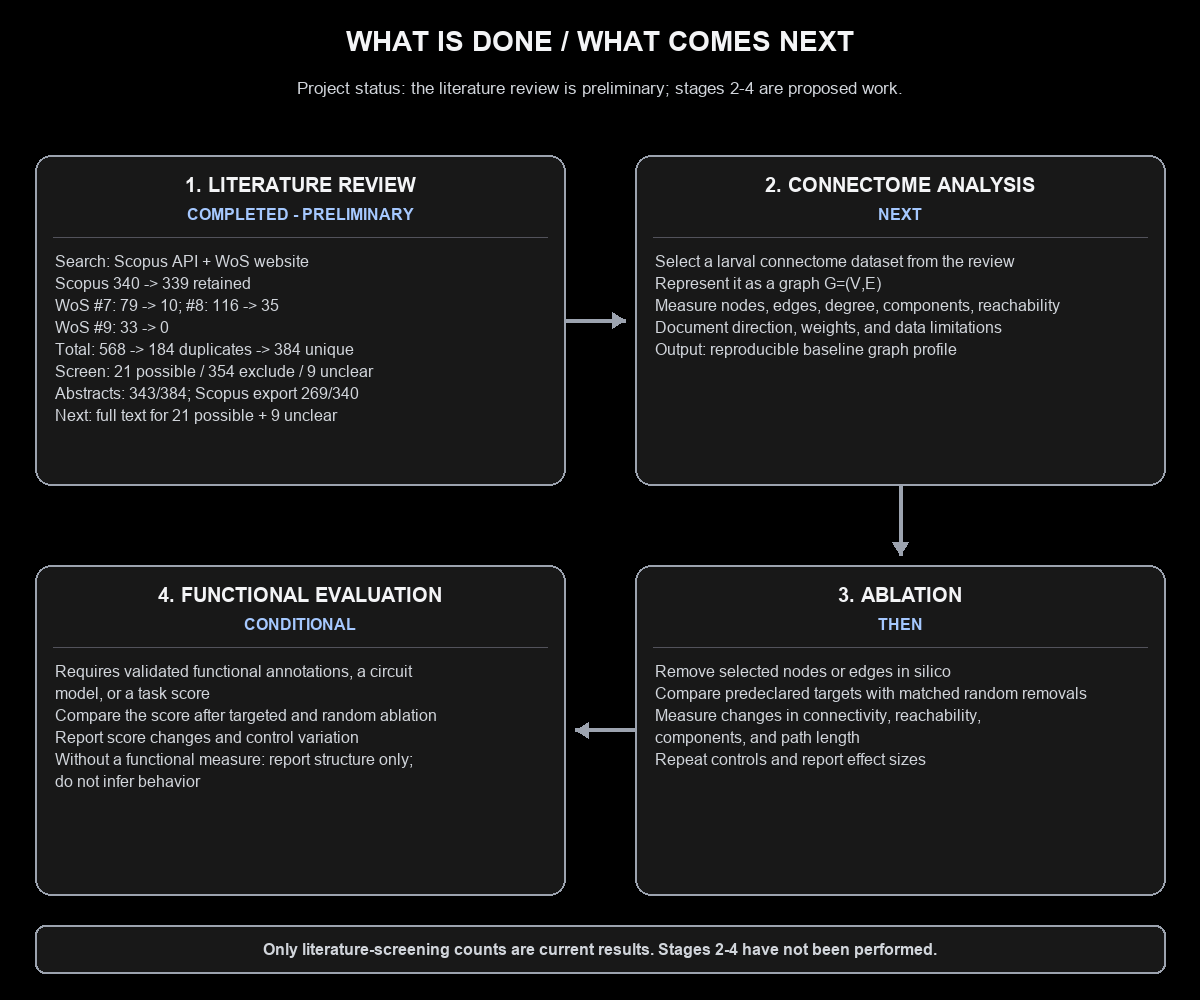
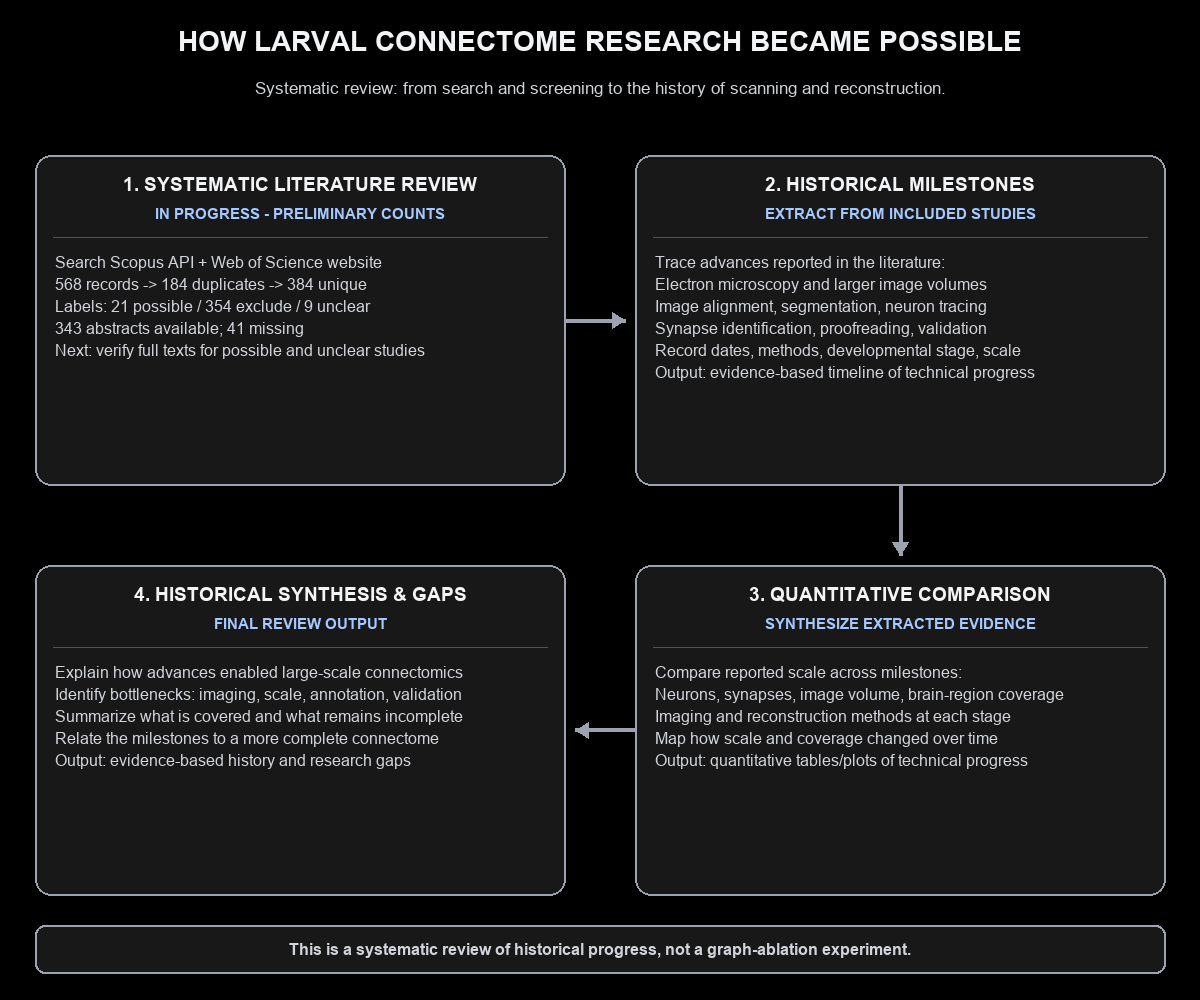
Align workflow with historical systematic review

diff --git a/document.tex b/document.tex
@@ -116,27 +116,32 @@ The main problem addressed in this work is
 \section{Possible Approach}
 
 This assignment begins with a quantitative literature review of the larval
-\textit{Drosophila melanogaster} connectome. The longer-term research idea
-is to select a suitable connectome dataset, analyze its graph, perform
-in-silico ablation, and evaluate functional consequences if a validated
-functional measure is available.
+\textit{Drosophila melanogaster} connectome. The research idea is historical:
+to trace how advances in electron-microscopy imaging, image processing,
+neuron reconstruction, and validation made increasingly large-scale larval
+connectome projects possible. The systematic review will identify these
+milestones, compare their reported scale and coverage, and summarize the
+remaining barriers to a more complete connectome.
 
 \subsection{Scope and Objectives}
 
-The preliminary quantitative question is: \textit{How has research on the larval \textit{D. melanogaster} connectome
-developed, and which datasets and computational methods are represented?}
-Initial quantitative measures are publication counts, citation counts,
-keywords, and screening decisions. The reported 2015--2024 period is a
+The preliminary question is: \textit{How did imaging and reconstruction
+methods develop to make large-scale larval \textit{D. melanogaster}
+connectomics possible, and how did the scale and coverage of the resulting
+datasets change?} Quantitative measures include publication counts and,
+where reported in eligible studies, image volume, reconstructed neurons,
+synapses, and brain-region coverage. The reported 2015--2024 period is a
 retrospective filter of the existing 2010--2026 exports, not a new search.
 The Scopus API log is dated 4 November 2026. The exact date and query history
 for the direct Web of Science (WoS) website search were not retained.
 
-The target records are journal articles and conference papers reporting
-primary research on larval \textit{D. melanogaster} connectivity, connectome
-reconstruction, or neural-circuit analysis. Reviews may inform background
-reading but will not count as primary studies. The current exports contain
-multiple publication types and no verified document-type filter, so this
-criterion still requires screening.
+The target records are primary studies on larval \textit{D. melanogaster}
+connectivity and connectome datasets, including the imaging, image
+processing, reconstruction, synapse identification, and validation methods
+that enabled them. Reviews may inform background reading but will not count
+as primary studies. The current exports contain multiple publication types
+and no verified document-type filter, so this criterion still requires
+screening.
 
 \subsection{Search Terms and Query Design}
 
@@ -245,20 +250,22 @@ query logs, criteria, and scripts are available in the project repository
 
 \subsection{Proposed Connectome Research Pipeline}
 
-The diagram separates the longer-term research idea from the bibliographic
-task currently being completed. The literature review will identify and
-compare candidate datasets and methods. A later connectome analysis may
-represent connectivity as a graph, remove selected nodes or edges in silico,
-and compare predefined circuit or task-related measures before and after
-ablation. No connectome analysis, ablation, or functional evaluation has yet
-been performed.
+The project is a systematic review of the historical development of larval
+connectomics, not a planned graph-ablation experiment. After search and
+screening, the review will extract milestones in electron-microscopy
+acquisition, image alignment and segmentation, neuron and synapse
+reconstruction, and validation. Reported dataset scale and coverage will be
+compared quantitatively where the source studies provide comparable
+measures. The synthesis will explain how these technical advances enabled
+larger reconstructions and identify limitations that remain on the path
+toward a more complete connectome. The current screening counts are
+preliminary; historical extraction and synthesis remain to be completed.
 
 \begin{figure*}[!t]
 \centering
 \includegraphics[width=0.95\textwidth]{pipe.png}
-\caption{Numbered project workflow. The literature-review counts are
-preliminary; connectome analysis, ablation, and functional evaluation are
-future work.}
+\caption{Systematic-review workflow for tracing historical technical
+advances that enabled larval connectome imaging and reconstruction.}
 \label{fig:workflow}
 \end{figure*}
 \begin{thebibliography}{00}

diff --git a/README.md b/README.md
@@ -1,6 +1,6 @@
 # Larval Drosophila Connectome
 
-This repository documents the preliminary literature review and proposed research pipeline in the existing IEEE-style draft, `document.tex`.
+This repository documents a systematic review of how imaging and reconstruction advances made large-scale larval Drosophila connectomics possible.
 
 ## Search and analysis
 
@@ -8,7 +8,7 @@ The Scopus Search API was queried on 2026-11-04 with three Boolean searches. Tog
 
 The quantitative results are a retrospective 2015-2024 subset of the available exports, not a new database search. The subset contains 568 source rows: 340 from Scopus and 228 from WoS. Deduplication removed 184 records, leaving 384 unique records. Source-level counts are in `source_counts.csv`; Scopus query counts are in `search_runs.csv`; Boolean expressions and limitations are in `search.txt`.
 
-Current screening labels are preliminary: 21 INCLUDE, 354 EXCLUDE, and 9 UNCLEAR. Abstracts are present for 343 of 384 unique records. The 21 possible inclusions and 9 unclear records still require eligibility and full-text review.
+Current screening labels are preliminary: 21 INCLUDE, 354 EXCLUDE, and 9 UNCLEAR. Abstracts are present for 343 of 384 unique records. The 21 possible inclusions and 9 unclear records still require eligibility and full-text review. The review will trace electron-microscopy acquisition, image processing, neuron/synapse reconstruction, and validation milestones, then compare reported dataset scale and coverage where measures are available.
 
 The Scopus export has abstracts for 269 of its 340 records in this period. Missing abstracts were manually looked up where accessible, as reported by the researcher. An OpenAlex enrichment check was also attempted for all 488 Scopus records, but per-record abstract provenance was not preserved; an exact manual-lookup count cannot be reported.
 
@@ -30,4 +30,4 @@ python stats.py
 
 `merge.py` imports the Scopus and WoS exports, deduplicates by DOI and then normalized title/year, and writes local screening and duplicate-review files. After title/abstract decisions and rationales are recorded, `stats.py` filters to 2015-2024, checks source, screening, and deduplication totals, and writes `counts.csv` and `source_counts.csv`. Change the analysis period with `--start-year` and `--end-year`.
 
-`screening_criteria.csv` records the eligibility rules and decision rationale. The WoS query history/date and per-record abstract-source provenance were not retained; these limitations are reported in `search.txt` and Section 3 of `document.tex`. Raw records and abstracts are not included in this repository.
+`screening_criteria.csv` records the eligibility rules and decision rationale. The WoS query history/date and per-record abstract-source provenance were not retained; these limitations are reported in `search.txt` and Section 3 of `document.tex`. The project is a historical systematic review, not a planned connectome graph-ablation experiment. Raw records and abstracts are not included in this repository.
